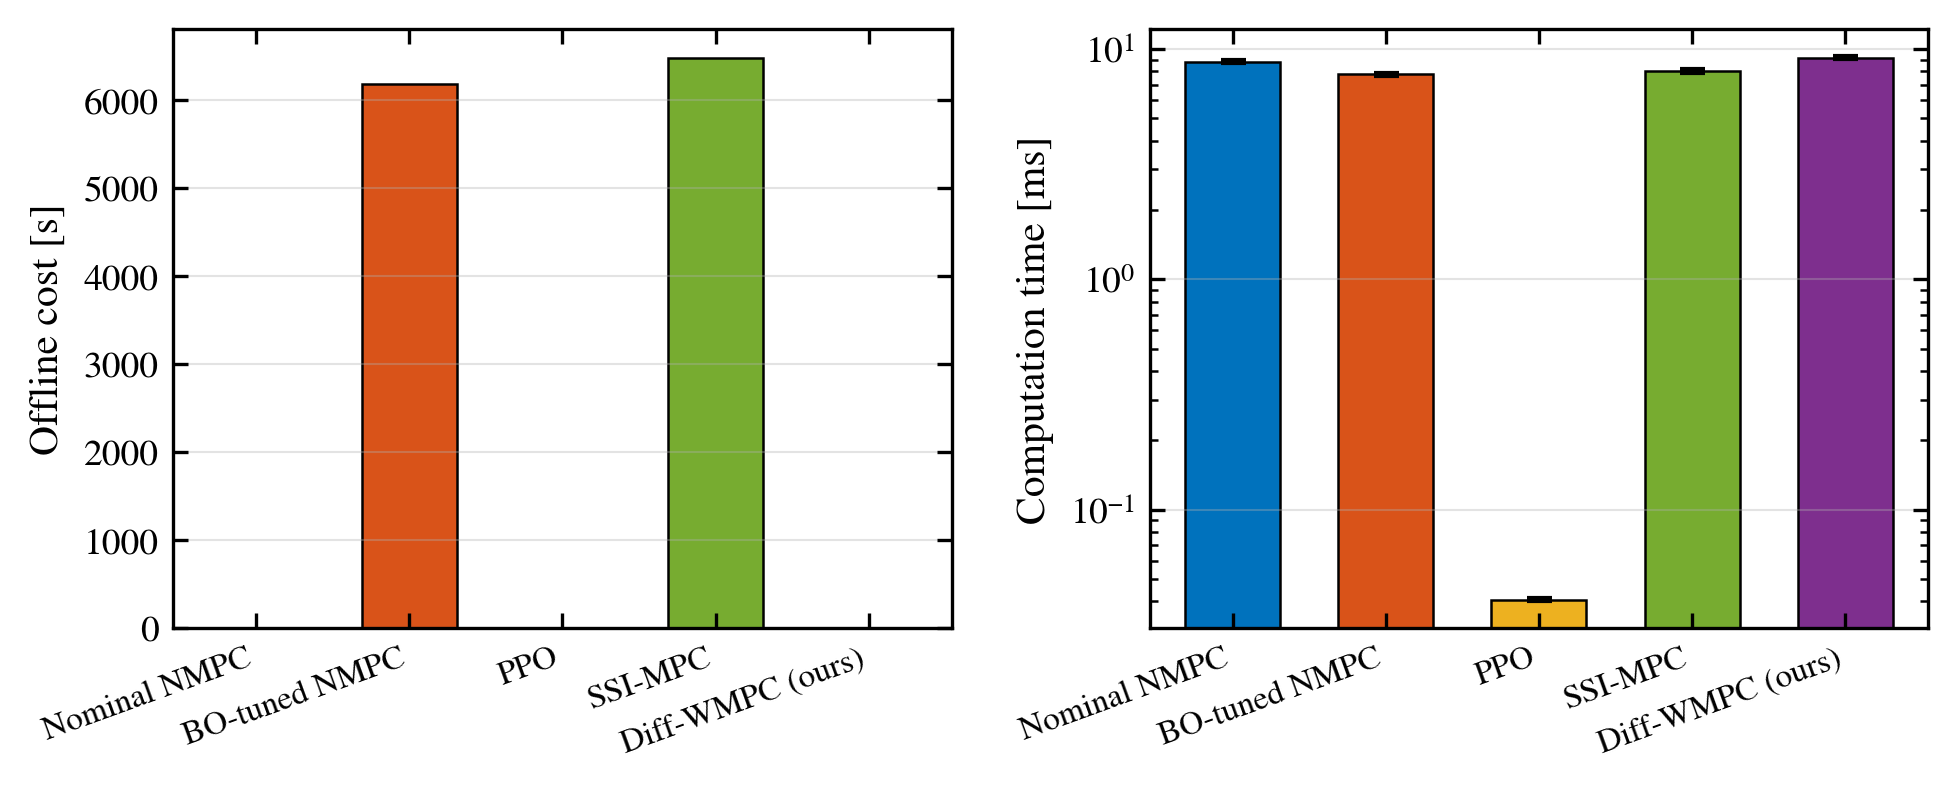
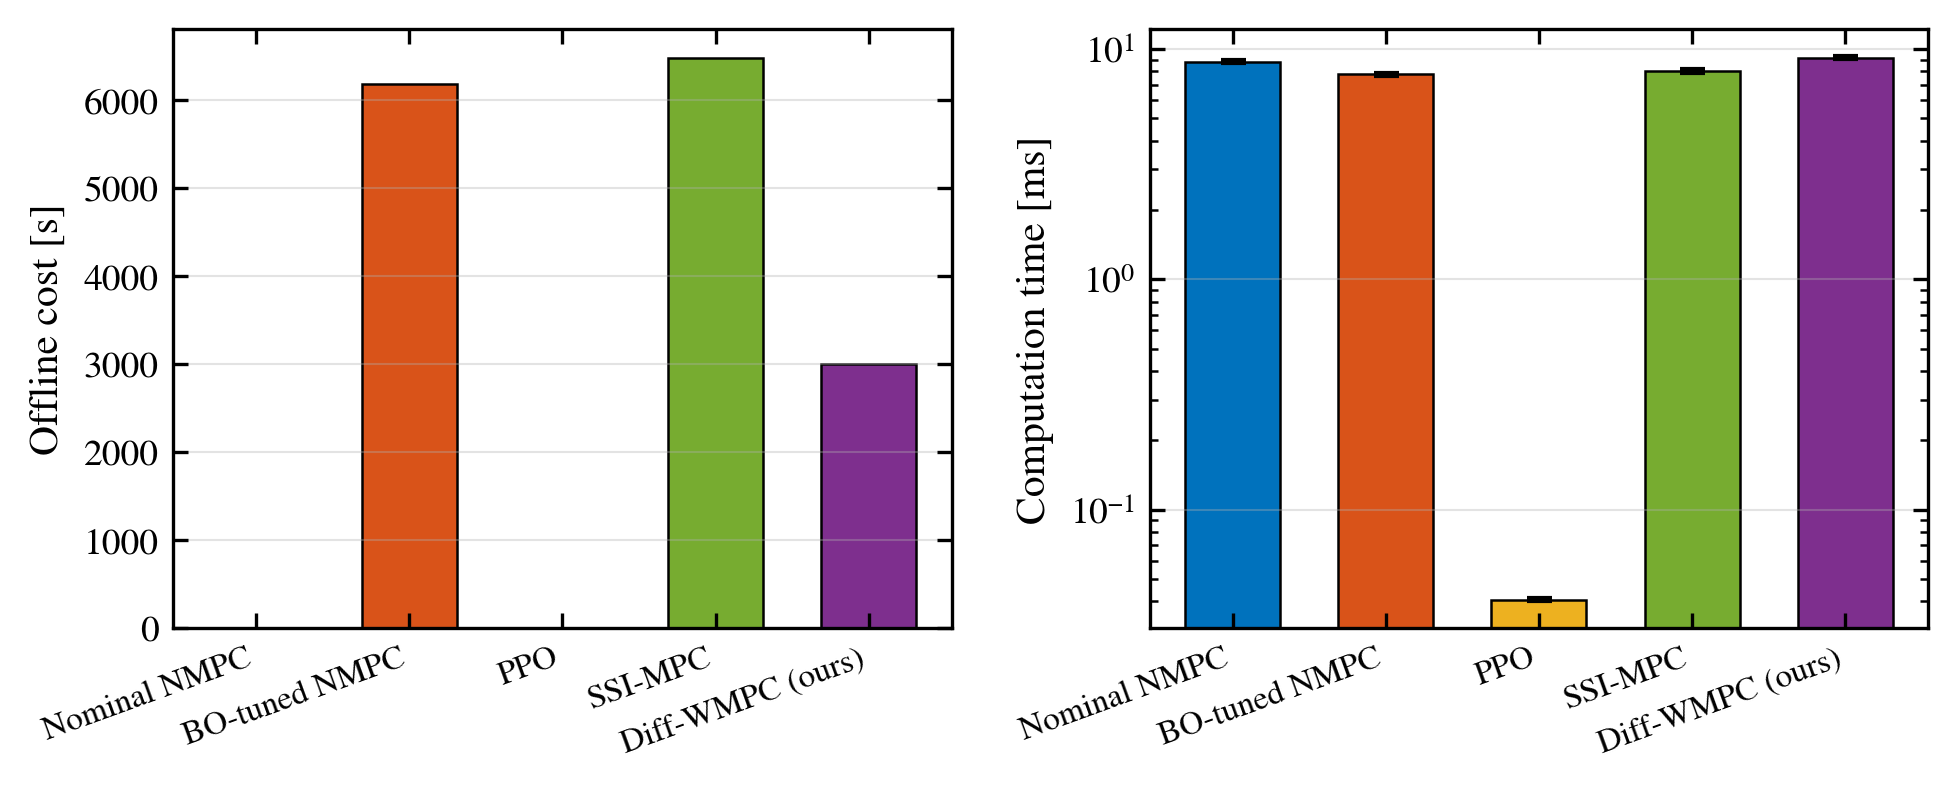
docs+figures: fold the speed/current results into the reports; diff training cost in F6
- validation_report: the monotone-axis gap flagged in §4.1 is now resolved by
  the scan-speed axis (nominal 2.2x vs tuned-flat, diff leading everywhere);
  zero-shot-ceiling conclusion recorded as reproduced on both adaptation axes.
- docs/README matrix: e2s speed and e3b current rows added.
- F6: diff's measured training cost (60k steps, ~3,000 s) injected as a
  collect_budgets-compatible budget.json; PPO's cost deliberately left for a
  real W&B pull rather than a fabricated number.

Changed region(s): [[0.405, 0.4569, 0.4673, 0.8223]]

diff --git a/docs/README.md b/docs/README.md
@@ -46,6 +46,8 @@
 | E4(a) ablation | — | — | — | — | [x] Table 2 (preview +41%, 나머지 무차별) |
 | E4(b) 튜닝 비용 | [x] | [x] | [x] | W&B 기록 | [ ] 학습비용 수령 |
 | E4 부록 민감도 (11×5) | — | — | [x] | — | — |
+| 속도 축 e2s (2조건×3시드) | [x] 2.2× 악화 | [x] 평탄 | [x] 평탄 | (제외: 보상 하드코딩) | [x] 전 속도 선두 |
+| 조류 3-arm e3b (4조건) | — | — | — | — | [x] zs≈ft, sc 열세 |
 | E4(c) 추론 벤치 (Jetson) | [ ] | [ ] | [ ] | [ ] | [ ] |
 | E5 하드웨어 | [ ] | [ ] | [ ] | [ ] | [ ] |
 
